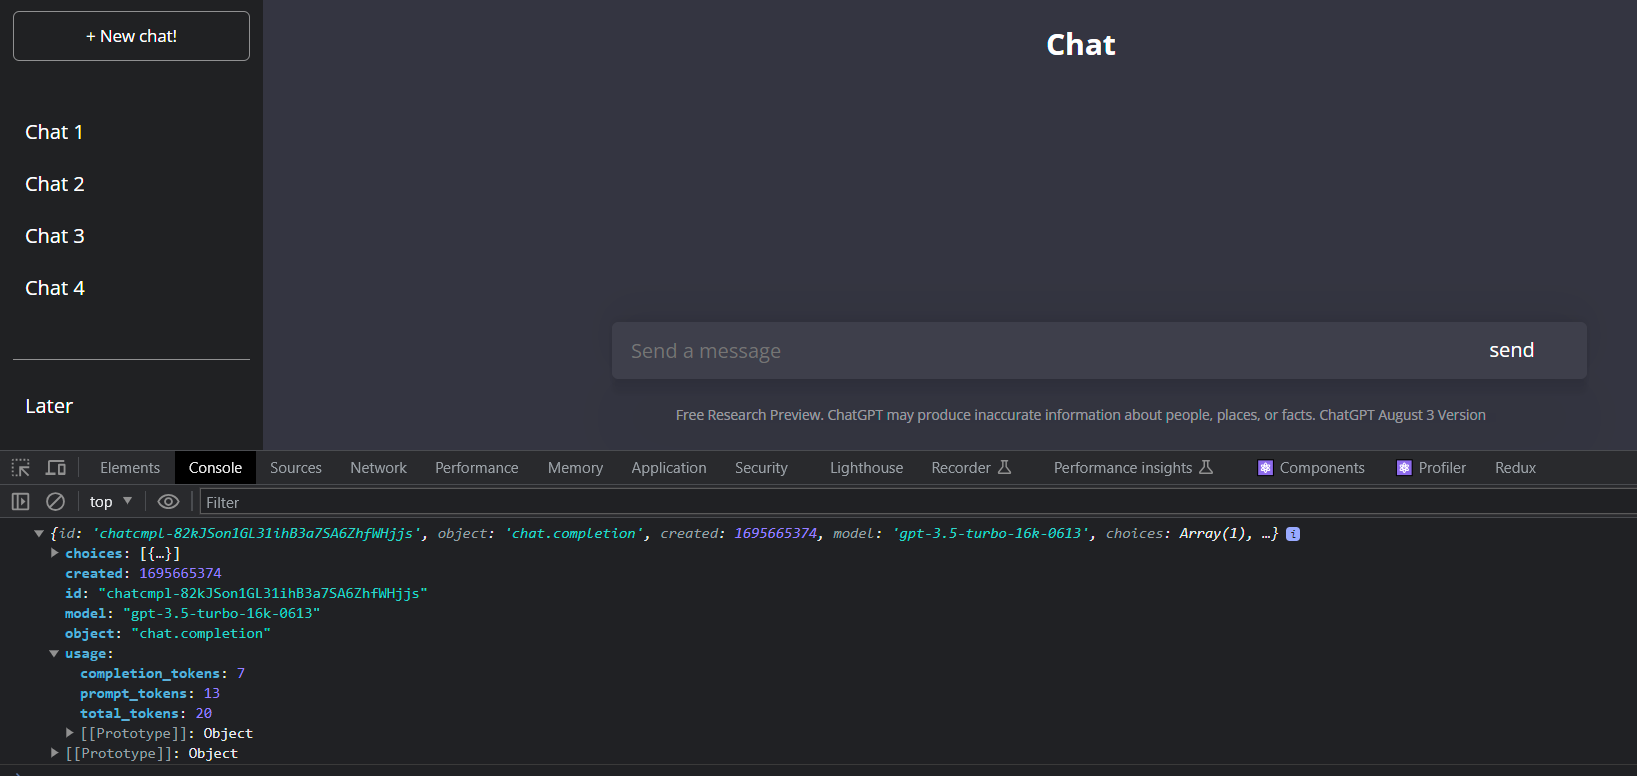
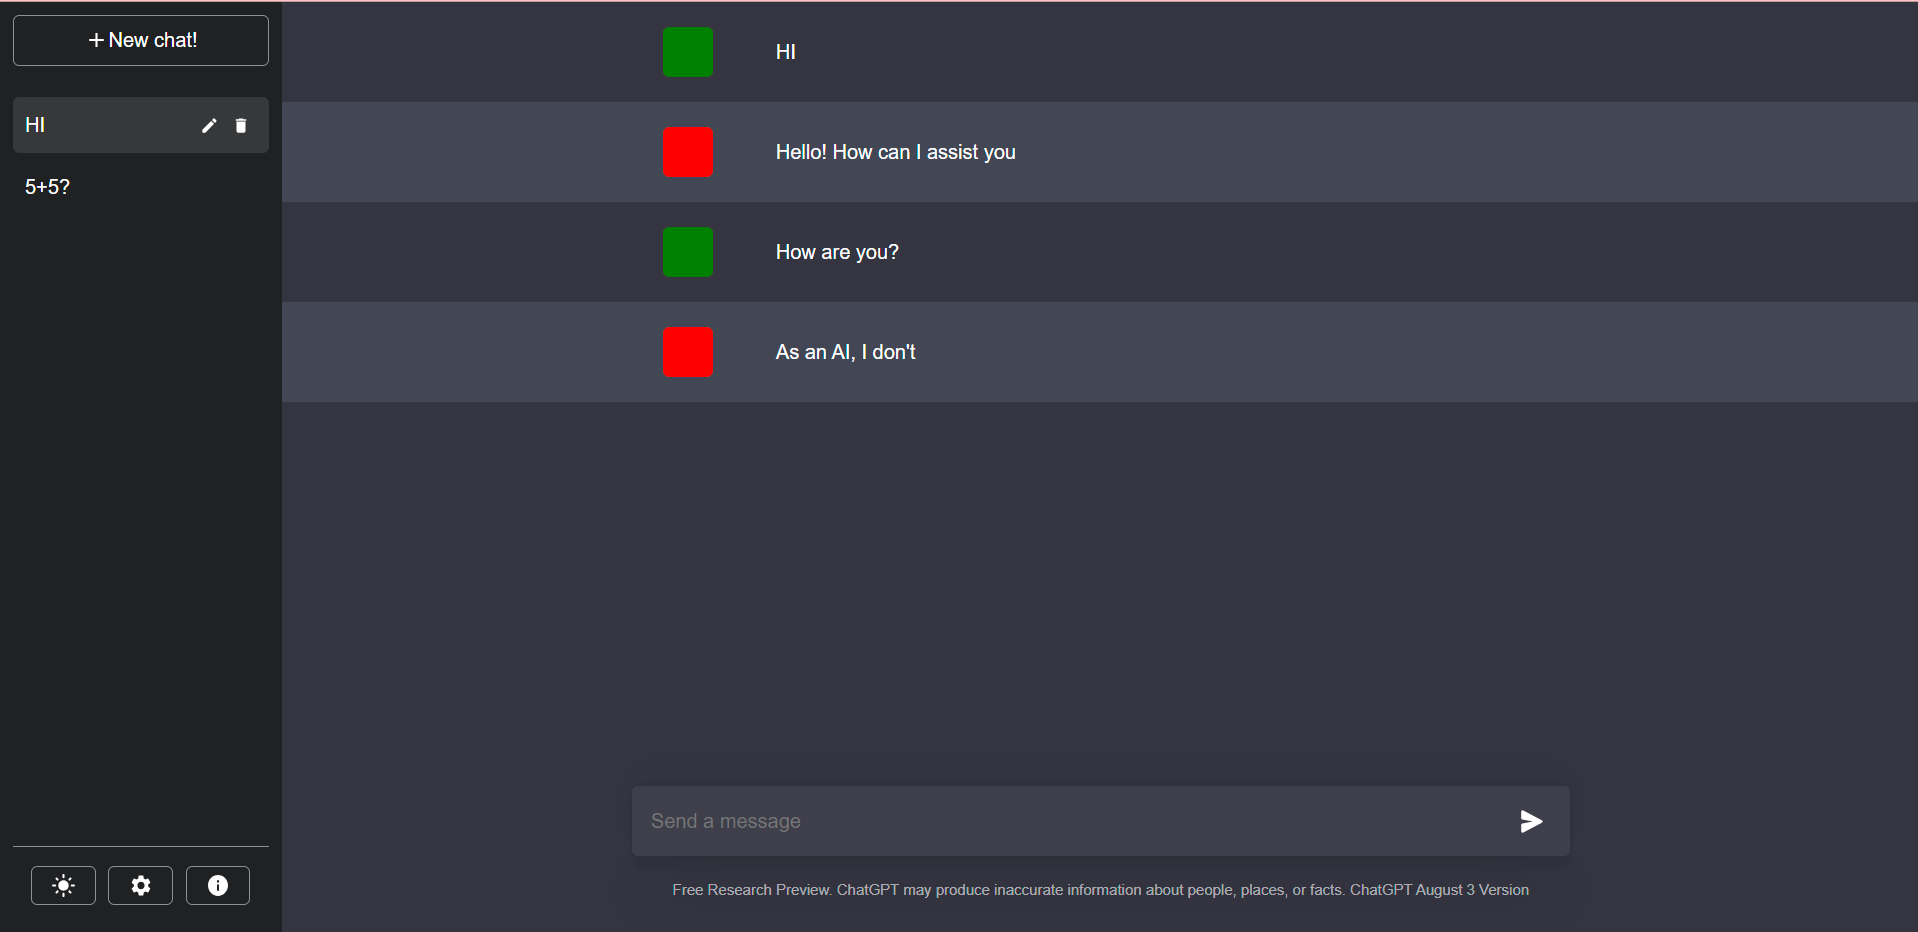
add chats functions

diff --git a/src/App.jsx b/src/App.jsx
@@ -1,6 +1,8 @@
 import "./styles/App.scss";
 import { useState, useEffect } from "react";
 import EmptyChat from './assets/empty.png'
+import ChatImg from './assets/chat.png'
+import PhotoImg from './assets/photo.png' 
 import AddIcon from '@mui/icons-material/Add';
 import SettingsIcon from '@mui/icons-material/Settings';
 import InfoIcon from '@mui/icons-material/Info';
@@ -30,7 +32,7 @@ const App = () => {
     setPreviousChats((prevChats) =>
       prevChats.filter((prevChat) => prevChat.title !== uniqueTitle)
     );
-  }
+  };
 
   const getMessages = async () => {
     const options = {
@@ -156,6 +158,22 @@ const App = () => {
           )}
         </ul>
 
+        <div className="convButtonsDiv">
+          {currentChat.length === 0 ? (
+            <div className="convButtonsDivContainer">
+              <button className="textButton">
+                Start chat
+                <img src={ChatImg} alt="ChatImg" />
+              </button>
+
+              <button className="imgButton">
+                Photo
+                <img src={PhotoImg} alt="PhotoImg" />
+              </button>
+            </div>
+          ) : null}
+        </div>
+
         <div className="bottomSection">
           <div className="inputContainer">
             <input
@@ -164,7 +182,8 @@ const App = () => {
               type="text"
               placeholder="Send a message"
             />
-            <div id="submit" onClick={getMessages}>
+
+            <button id="submit" onClick={getMessages}>
               <svg
                 xmlns="http://www.w3.org/2000/svg"
                 viewBox="0 0 16 16"
@@ -176,7 +195,7 @@ const App = () => {
                   fill="currentColor"
                 ></path>
               </svg>
-            </div>
+            </button>
 
             <p className="info">
               Free Research Preview. ChatGPT may produce inaccurate information

diff --git a/src/styles/App.scss b/src/styles/App.scss
@@ -115,6 +115,7 @@ body {
     justify-content: space-between;
     align-items: center;
     text-align: center;
+    position: relative;
 
     .messages {
       width: 100%;
@@ -169,6 +170,52 @@ body {
       }
     }
 
+    .convButtonsDiv {
+      position: absolute;
+      top: 550px;
+      height: 60px;
+      display: flex;
+      flex-direction: row;
+      justify-content: center;
+      align-items: center;
+      width: 100%;
+      width: 500px;
+
+      .convButtonsDivContainer {
+        display: flex;
+        flex-direction: row;
+        justify-content: space-around;
+        align-items: center;
+        width: 100%;
+
+        button {
+          border: solid 0.1px rgba(255, 255, 255, 0.5);
+          border-radius: 5px;
+          width: 150px;
+          height: 50px;
+          margin: 5px;
+          padding: 5px;
+          display: flex;
+          align-items: center;
+          justify-content: space-around;
+          cursor: pointer;
+          font-size: 16px;
+
+          img {
+            height: 40px;
+          }
+        }
+
+        .textButton {
+          background: linear-gradient(to right, #fb7f7f, #db7ae8);
+        }
+
+        .imgButton {
+          background: linear-gradient(to right, #41616d, #6b61ac);
+        }
+      }
+    }
+
     .bottomSection {
       width: 100%;
       display: flex;
@@ -178,9 +225,9 @@ body {
       height: 150px;
 
       .inputContainer {
-        position: relative;
         width: 100%;
         max-width: 750px;
+        position: relative;
 
         input {
           font-size: 16px;
@@ -205,6 +252,8 @@ body {
         }
 
         #submit {
+          border: none;
+          background-color: transparent;
           position: absolute;
           cursor: pointer;
           height: 56px;

diff --git a/README.md b/README.md
@@ -1,3 +1,1 @@
-# Getting Started with Create React App
-
-![Alt text](/public/readme-image1.png)
+![Alt text](/public/readme-image1.png.png)
